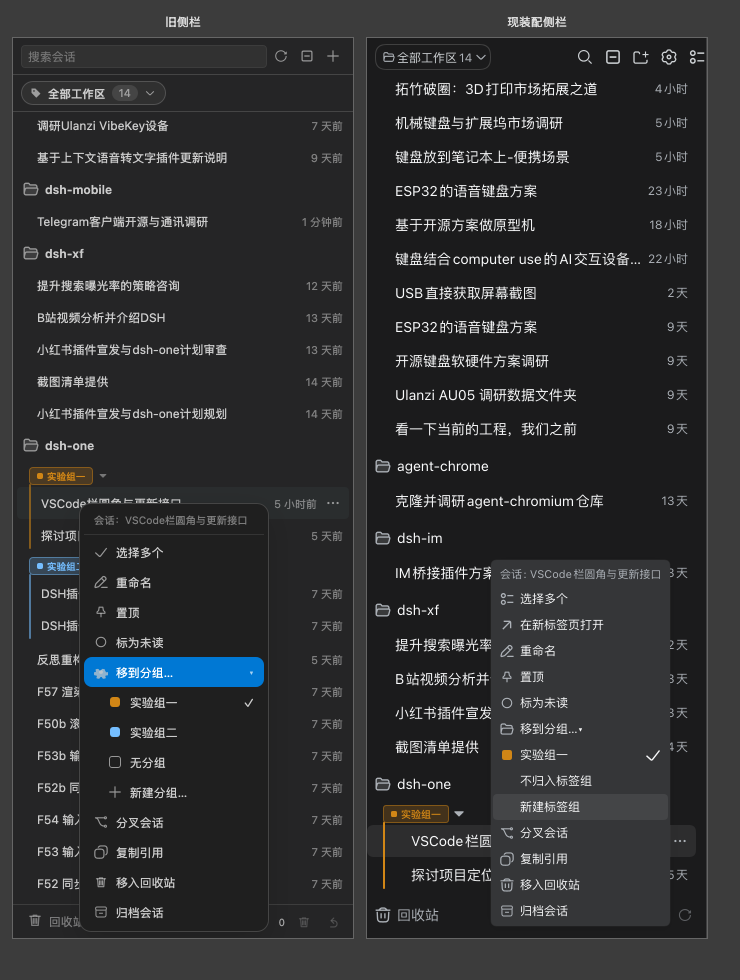
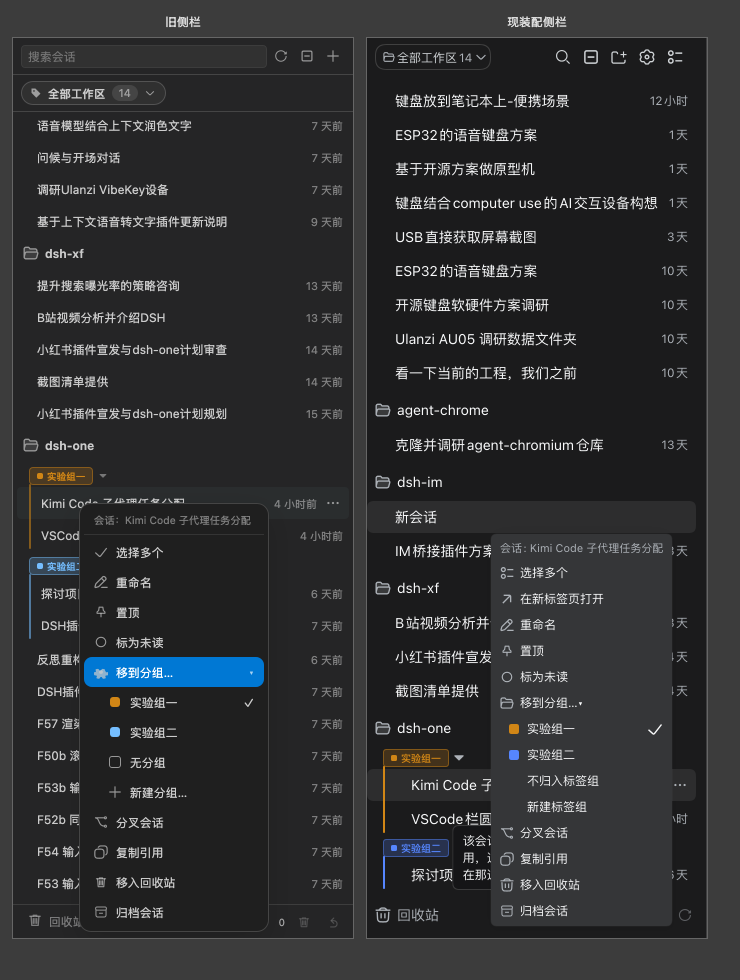
docs(#171): CHANGELOG 按用户话改写二级菜单缩进那条 + 实验室 README 计数与 F-32 行 + 旧侧栏对照文档与指标表按本轮实测刷新

diff --git a/test/legacy-sidebar/verify.ts b/test/legacy-sidebar/verify.ts
@@ -517,13 +517,13 @@ const metrics: readonly Metric[] = [
   { id: 'menu-icon-slot', state: 'menu-l1', label: '菜单项图标位', legacy: { selector: '.popover .menu-item .menu-item-icon' }, current: { selector: '[role="menu"] button[role="menuitem"] [class*="_itemIcon"]' }, measure: { kind: 'box' } },
 
   // ---- 菜单二级 ----
-  { id: 'submenu-indent', state: 'menu-l2', label: '二级项相对一级项**图标列**的缩进', legacy: { selector: '.popover .tag-submenu .menu-item .menu-item-icon', minus: '.popover .menu-item .menu-item-icon' }, current: { selector: '[role="menu"] [data-dshone-tree-item^="tag:"]', minus: '[role="menu"] [class*="_itemIcon"]' }, measure: { kind: 'indent' }, note: '基准取**整个菜单第一项**的图标列（不是父项自己的图标列）：这一项量的是「二级项的内容列相对一级项图标列挪了多少」，父子那两条关系量更直接。两侧读数**不完全可比**：旧侧栏这一项取的是子项图标槽里那个 10px 色块（色块在 14px 槽里居中，多出 2px），算出来 = 子项内边距 24 − 第一项内边距 10 + 2 = 16；现装配侧取的是子项的文字 = 子项内边距 21 + 图标槽 14 + 项内间隙 6 − 第一项内边距 7 = 34（#167 起；#143 期间是 20）' },
+  { id: 'submenu-indent', state: 'menu-l2', label: '二级项相对一级项**图标列**的缩进', legacy: { selector: '.popover .tag-submenu .menu-item .menu-item-icon', minus: '.popover .menu-item .menu-item-icon' }, current: { selector: '[role="menu"] [data-dshone-tree-item^="tag:"]', minus: '[role="menu"] [class*="_itemIcon"]' }, measure: { kind: 'indent' }, note: '基准取**整个菜单第一项**的图标列（不是父项自己的图标列）：这一项量的是「二级项的内容列相对一级项图标列挪了多少」，父子那两条关系量更直接。两侧读数**不完全可比**：旧侧栏这一项取的是子项图标槽里那个 10px 色块（色块在 14px 槽里居中，多出 2px），算出来 = 子项内边距 24 − 第一项内边距 10 + 2 = 16；现装配侧取的是子项的文字 = 子项内边距 14 + 图标槽 14 + 项内间隙 6 − 第一项内边距 7 = 27（#171 起；#167 期间是 34、#143 期间是 20）' },
   // #143：二级项与父项的两条关系量（用户报的「缩进太深」看的是第一条）。父项两侧各用自己的
   // 办法定位：旧侧栏取「紧挨着 `.tag-submenu` 容器的那一项」、现装配侧取它自己的项标记；
   // 子项文字两侧都取**标签那一个 span**（旧侧栏是那个没有类名的 span、现装配侧是
   // `.dshOneTree_submenuItem`）——用 Range 取内容盒才是字真的落在哪儿。
-  { id: 'submenu-text-vs-parent-text', state: 'menu-l2', label: '子项文字左缘 − 父项文字左缘', legacy: { selector: '.popover .tag-submenu .menu-item > span:not([class])', minus: '.popover .menu-item:has(+ .tag-submenu) > span:not([class])' }, current: { selector: '[role="menu"] .dshOneTree_submenuItem', minus: '[role="menu"] [data-dshone-tree-item="moveToGroup"]' }, measure: { kind: 'indent' }, note: '这一条就是「子项比父项深多少」：正数 = 比父项深，负数 = 比父项浅，0 = 与父项同列。旧侧栏恒为 14（= 它自己那个图标槽的宽）；现装配侧 #126 是 20（深两个图标槽，用户报「太深」）、#143 收到 0（用户又觉得「层级没了」）、#167 取回一位，回到与旧侧栏同值的 14' },
-  { id: 'submenu-text-vs-parent-icon-right', state: 'menu-l2', label: '子项文字左缘 − 父项图标槽右缘', legacy: { selector: '.popover .tag-submenu .menu-item > span:not([class])', minus: '.popover .menu-item:has(+ .tag-submenu) .menu-item-icon' }, current: { selector: '[role="menu"] .dshOneTree_submenuItem', minus: '[role="menu"] button[role="menuitem"]:has([data-dshone-tree-item="moveToGroup"]) [class*="_itemIcon"]' }, measure: { kind: 'textFromBoxRight' }, note: '子项文字相对父项图标槽右缘差多少：差 = 子项自己的图标槽 + 项内间隙。旧侧栏 14 + 8 = 22、现装配侧 14 + 6 = 20（#167 起；#143 期间是 6 = 只剩项内间隙，子项文字压在父项图标槽右侧）' },
+  { id: 'submenu-text-vs-parent-text', state: 'menu-l2', label: '子项文字左缘 − 父项文字左缘', legacy: { selector: '.popover .tag-submenu .menu-item > span:not([class])', minus: '.popover .menu-item:has(+ .tag-submenu) > span:not([class])' }, current: { selector: '[role="menu"] .dshOneTree_submenuItem', minus: '[role="menu"] [data-dshone-tree-item="moveToGroup"]' }, measure: { kind: 'indent' }, note: '这一条就是「子项比父项深多少」：正数 = 比父项深，负数 = 比父项浅，0 = 与父项同列。旧侧栏恒为 14（= 它自己那个图标槽的宽，也就是我们说的「旧侧栏那一档」）；现装配侧 #126 是 20（深两个图标槽，用户报「太深」）、#143 收到 0（用户又觉得「层级没了」）、#167 取回一位、回到与旧侧栏同值的 14，用户看过仍觉得偏大、#171 取那一档的一半 = 7' },
+  { id: 'submenu-text-vs-parent-icon-right', state: 'menu-l2', label: '子项文字左缘 − 父项图标槽右缘', legacy: { selector: '.popover .tag-submenu .menu-item > span:not([class])', minus: '.popover .menu-item:has(+ .tag-submenu) .menu-item-icon' }, current: { selector: '[role="menu"] .dshOneTree_submenuItem', minus: '[role="menu"] button[role="menuitem"]:has([data-dshone-tree-item="moveToGroup"]) [class*="_itemIcon"]' }, measure: { kind: 'textFromBoxRight' }, note: '子项文字相对父项图标槽右缘差多少：差 = 子项自己的图标槽 + 项内间隙 − 那半格缩进。旧侧栏 14 + 8 = 22；现装配侧 #167 起是 14 + 6 = 20，#171 起是 14 + 6 − 7 = 13（#143 期间是 6 = 只剩项内间隙，子项文字压在父项图标槽右侧）' },
 
 
   // ---- 标签组 ----

diff --git a/CHANGELOG.md b/CHANGELOG.md
@@ -75,7 +75,7 @@
 - 侧栏多选的操作条：条与分组过滤条、会话列表之间加了分隔线和底色，按钮不再像是浮在会话行上；三枚按钮也改小一号，与这一列的其它控件同高。
 - 侧栏多选：进入多选后，工作区名不再被勾选框单独推到右边，它与会话标题之间的缩进关系原样保持。
 - 侧栏多选：会话行的勾选框往里缩进一档、与工作区行的文件夹图标对齐（工作区行的框仍在最左），会话标题的位置不变。
-- 侧栏菜单：会话行「移到分组…」与工作区行「分组…」展开出来的二级项比父项缩进一格（一个图标位的宽度），看得出是嵌在父项下面的一层，也不再像原来那样深两格；父项右端仍有 ▸/▾ 表示展开状态。
+- 侧栏菜单：会话行「移到分组…」与工作区行「分组…」展开出来的二级项比父项缩进得更少——从原来的一整格收成半格（半个图标位的宽度），看着仍是嵌在父项下面的一层，又不显得偏深；也不再像更早那样深两格。父项右端仍有 ▸/▾ 表示展开状态。
 - 侧栏左缘对齐：顶栏的搜索框、分组过滤条上的分组胶囊、列表行里文件夹图标的左缘落在同一条竖线上，不再一个贴到侧栏边、一个往里缩（回收站入口行与抽屉里的行一起跟上）。
 - 侧栏会话行：等待提问或审批的会话现在前面显示黄点，此前这类会话显示的是绿点。
 - 侧栏顶部那一行的右边留出空白：搜索与工具按钮、展开后的搜索框都不再顶到侧栏右缘，右端与列表行行尾内容（时间、角标）落在同一条竖线上。
